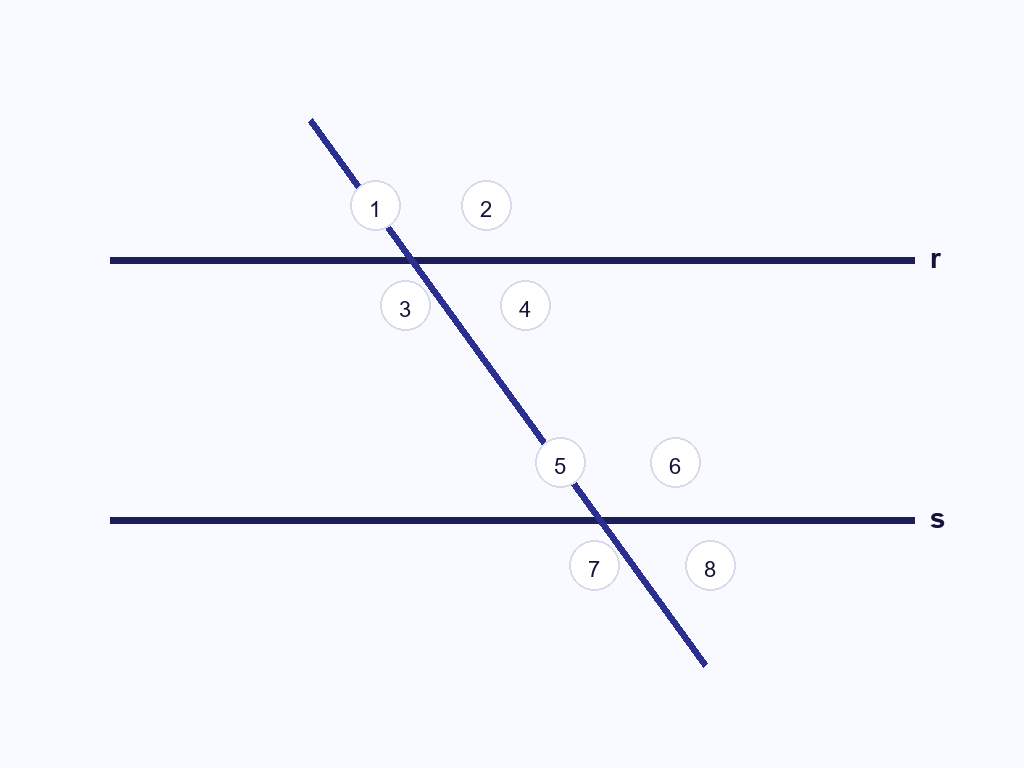
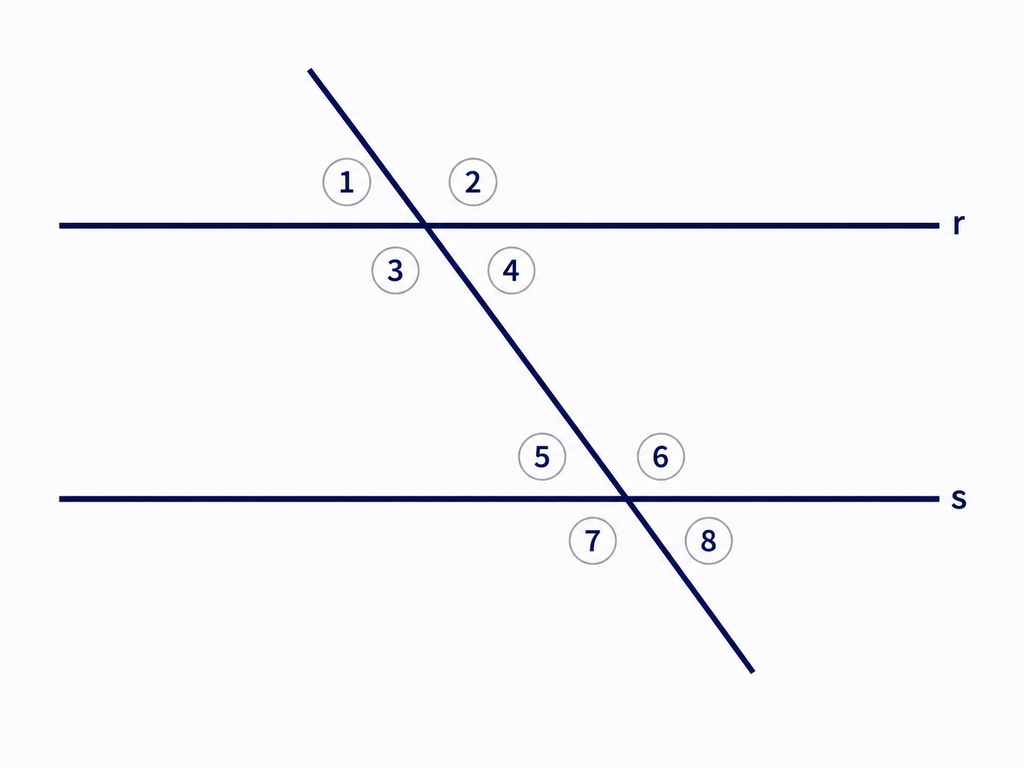
fix: corregir diagrama del reactivo 74

Changed region(s): [[0.0625, 0.0938, 0.9375, 0.8125], [0.6562, 0.7812, 0.7188, 0.875], [0.7188, 0.8438, 0.75, 0.875]]

diff --git a/docs/CONTROL_CONTENIDO_VERSION_2.md b/docs/CONTROL_CONTENIDO_VERSION_2.md
@@ -85,6 +85,7 @@ En Español, las píldoras conservan el bloque azul de lectura. Las marcas visua
 - Se simplificó el texto visible de los reactivos con imagen 5, 6, 7, 8, 9, 10, 44, 73, 74, 94, 106, 108 y 112 para que presenten objetivo o instrucción, no descripciones redundantes de la figura.
 - Las opciones visibles de los reactivos 5, 7 y 8 se compactaron como opciones visuales A-E para no duplicar la imagen.
 - Los textos alternativos de imágenes se ajustaron para describir el apoyo visual al alumno, con más contexto accesible en 5, 7 y 8, y ya no conservar frases de generación.
+- El diagrama del reactivo 74 se reemplazó con una imagen generada mediante `imagegen`, ajustada a 1024 × 768 px y con numeración corregida: 3, 4, 5 y 6 como ángulos interiores.
 - Se agregó recarga segura del intento: si existe progreso guardado, la app pregunta si se quiere continuar sin reiniciar o borrar el intento desde cero.
 - El avance guardado conserva respuestas, reactivo activo, métricas y cronómetro; el tiempo se calcula contra una fecha límite real para evitar pausas por suspensión o pestaña inactiva.
 - El intento guardado se invalida si cambia la firma del contenido estructurado del examen.

diff --git a/docs/QA_VERSION_2.md b/docs/QA_VERSION_2.md
@@ -121,6 +121,7 @@ Validó:
 
 - Captura local generada por Playwright MCP: `docs/qa/ecoems-simulacion-2-mobile-reactivo-5.png`.
 - Captura móvil del reactivo 40 sin resaltado ni subrayado indebido: `docs/qa/ecoems-simulacion-2-mobile-espanol-marcas.png`.
+- Captura móvil del reactivo 74 con diagrama generado por `imagegen`: `docs/qa/ecoems-simulacion-2-mobile-reactivo-74-imagegen.png`.
 
 ## Estado de publicación
 